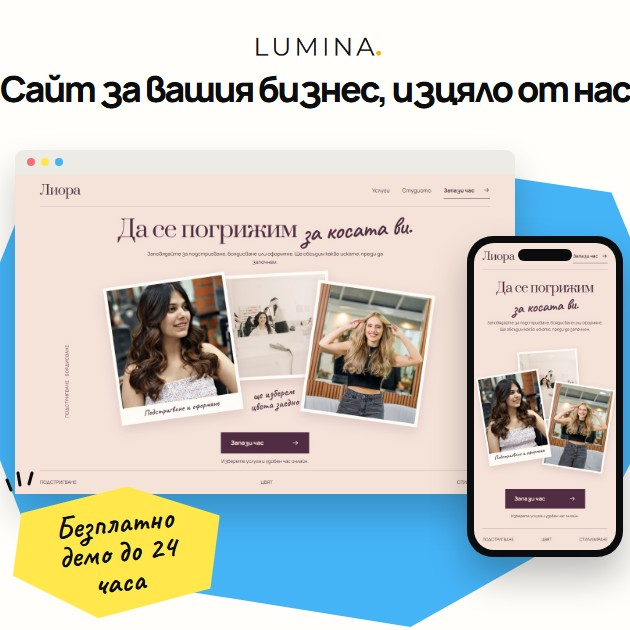
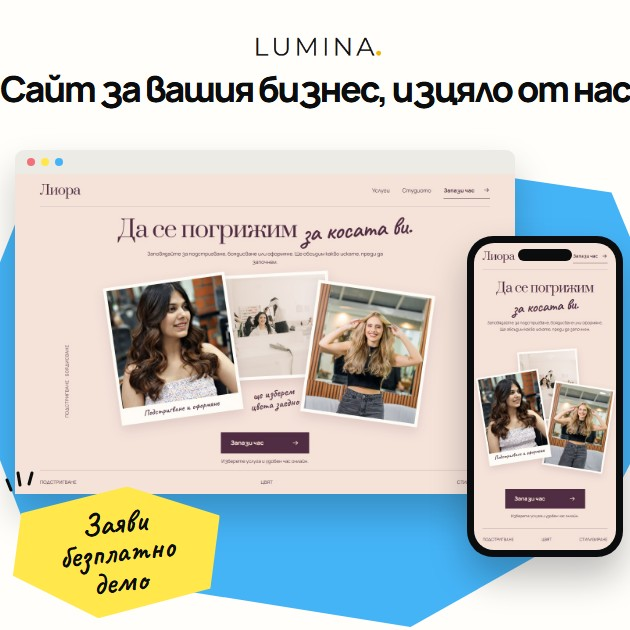
Copy: drop the 24-hour demo promise
The owner felt "demo within 24 hours" sounded automated. The demo is now
simply free, on request: hero notes, contact steps and offer, postmark,
thank-you card, meta description and share picture (v=5).

Changed region(s): [[0.0905, 0.8143, 0.3016, 0.9651]]

diff --git a/index.html b/index.html
@@ -4,7 +4,7 @@
   <meta charset="utf-8">
   <meta name="viewport" content="width=device-width, initial-scale=1, viewport-fit=cover">
   <meta name="theme-color" content="#fffefa">
-  <meta name="description" content="Lumina прави сайтове за малкия бизнес в България: дизайн, изработка, домейн, хостинг, SEO и поддръжка. Безплатно демо на вашия сайт до 24 часа.">
+  <meta name="description" content="Lumina прави сайтове за малкия бизнес в България: дизайн, изработка, домейн, хостинг, SEO и поддръжка. Безплатно демо на вашия сайт.">
   <title>Изработка на сайт за вашия бизнес, изцяло от нас | Lumina</title>
   <!-- Search and link-preview tags. Every full address below starts with the site's public address; when the site moves to luminastudio.bg, change them all (also in robots.txt and sitemap.xml). -->
   <link rel="preload" as="image" href="assets/selected-demos/liora.jpg" type="image/jpeg" fetchpriority="high">
@@ -15,21 +15,21 @@
   <meta property="og:locale" content="bg_BG">
   <meta property="og:url" content="https://luminastudio.bg/">
   <meta property="og:title" content="Lumina — Сайт за вашия бизнес, изцяло от нас">
-  <meta property="og:description" content="Lumina прави сайтове за малкия бизнес в България: дизайн, изработка, домейн, хостинг, SEO и поддръжка. Безплатно демо на вашия сайт до 24 часа.">
-  <meta property="og:image" content="https://luminastudio.bg/assets/share-card.jpg?v=4">
+  <meta property="og:description" content="Lumina прави сайтове за малкия бизнес в България: дизайн, изработка, домейн, хостинг, SEO и поддръжка. Безплатно демо на вашия сайт.">
+  <meta property="og:image" content="https://luminastudio.bg/assets/share-card.jpg?v=5">
   <meta property="og:image:type" content="image/jpeg">
   <meta property="og:image:width" content="1200">
   <meta property="og:image:height" content="630">
-  <meta property="og:image:alt" content="Lumina: „Сайт за вашия бизнес, изцяло от нас.“, примерен сайт и бележка „Безплатно демо до 24 часа“.">
+  <meta property="og:image:alt" content="Lumina: „Сайт за вашия бизнес, изцяло от нас.“, примерен сайт и бележка „Заяви безплатно демо“.">
   <meta name="twitter:card" content="summary_large_image">
   <meta name="twitter:title" content="Lumina — Сайт за вашия бизнес, изцяло от нас">
-  <meta name="twitter:description" content="Lumina прави сайтове за малкия бизнес в България: дизайн, изработка, домейн, хостинг, SEO и поддръжка. Безплатно демо на вашия сайт до 24 часа.">
-  <meta name="twitter:image" content="https://luminastudio.bg/assets/share-card.jpg?v=4">
+  <meta name="twitter:description" content="Lumina прави сайтове за малкия бизнес в България: дизайн, изработка, домейн, хостинг, SEO и поддръжка. Безплатно демо на вашия сайт.">
+  <meta name="twitter:image" content="https://luminastudio.bg/assets/share-card.jpg?v=5">
   <link rel="icon" href="favicon.ico" sizes="48x48">
   <link rel="icon" href="assets/favicon.svg" type="image/svg+xml">
   <link rel="apple-touch-icon" href="assets/apple-touch-icon.png">
   <link rel="manifest" href="site.webmanifest">
-  <script type="application/ld+json">{"@context":"https://schema.org","@type":"ProfessionalService","name":"Lumina Studio","description":"Lumina прави сайтове за малкия бизнес в България: дизайн, изработка, домейн, хостинг, SEO и поддръжка. Безплатно демо на вашия сайт до 24 часа.","url":"https://luminastudio.bg/","image":"https://luminastudio.bg/assets/share-card.jpg?v=4","logo":"https://luminastudio.bg/assets/icon-512.png","telephone":"+359877776563","email":"info@luminastudio.bg","areaServed":{"@type":"Country","name":"Bulgaria"},"availableLanguage":["bg","en"],"knowsAbout":["Уеб дизайн","Изработка на сайтове","SEO оптимизация","Хостинг и домейни","Поддръжка на сайтове"]}</script>
+  <script type="application/ld+json">{"@context":"https://schema.org","@type":"ProfessionalService","name":"Lumina Studio","description":"Lumina прави сайтове за малкия бизнес в България: дизайн, изработка, домейн, хостинг, SEO и поддръжка. Безплатно демо на вашия сайт.","url":"https://luminastudio.bg/","image":"https://luminastudio.bg/assets/share-card.jpg?v=5","logo":"https://luminastudio.bg/assets/icon-512.png","telephone":"+359877776563","email":"info@luminastudio.bg","areaServed":{"@type":"Country","name":"Bulgaria"},"availableLanguage":["bg","en"],"knowsAbout":["Уеб дизайн","Изработка на сайтове","SEO оптимизация","Хостинг и домейни","Поддръжка на сайтове"]}</script>
   <link rel="stylesheet" href="assets/fonts/fonts.css?v=2">
   <link rel="stylesheet" href="styles.css?v=23">
   <link rel="stylesheet" href="overview-clear-callouts.css?v=10">
@@ -49,12 +49,12 @@
   <script src="assets/project-stories.js?v=12" defer></script>
   <script src="portfolio-story.js?v=15" defer></script>
   <script src="assets/site-preview.js?v=16" defer></script>
-  <script src="contact-postcard.js?v=14" defer></script>
+  <script src="contact-postcard.js?v=15" defer></script>
   <script src="overview-clear-callouts.js?v=6" defer></script>
   <script src="assets/teron-shop.js?v=4" defer></script>
   <script src="script.js?v=3" defer></script>
   <script src="cookies.js?v=3" defer></script>
-  <script src="i18n.js?v=teron-25" defer></script>
+  <script src="i18n.js?v=teron-27" defer></script>
 </head>
 <body>
   <svg class="icon-library" xmlns="http://www.w3.org/2000/svg" aria-hidden="true">
@@ -139,8 +139,8 @@
             <div class="phone-camera"></div>
             <div class="phone-screen hero-demo-stage hero-demo-stage--phone"><div class="hero-slide hero-slide--liora is-active" data-slide="0"><img class="hero-preview-image" src="assets/selected-demos/liora-mobile.jpg" width="390" height="844" alt="" decoding="async" fetchpriority="high"></div><div class="hero-slide hero-slide--forno" data-slide="1" aria-hidden="true"><img class="hero-preview-image" src="assets/selected-demos/forno-mobile.jpg" width="390" height="844" alt="" decoding="async"></div><div class="hero-slide hero-slide--hotel" data-slide="2" aria-hidden="true"><img class="hero-preview-image" src="assets/selected-demos/hotel-mobile.jpg" width="390" height="844" alt="" decoding="async"></div></div>
           </div>
-          <a class="pink-note" href="#contact"><span class="note-wide">Клиентите<br>ви търсят<br>онлайн.<br>Бъдете там.</span><span class="note-phone">Безплатно<br>демо до<br>24 часа</span><i></i></a><span class="note-marks" aria-hidden="true"><i></i><i></i><i></i></span>
-          <div class="process-note"><span>Безплатно демо<br>до 24 часа.</span><svg class="process-note-arrow" viewBox="0 0 120 44" aria-hidden="true"><path d="M4 34C40 44 82 36 112 8M96 6l16 2-7 15"/></svg></div>
+          <a class="pink-note" href="#contact"><span class="note-wide">Клиентите<br>ви търсят<br>онлайн.<br>Бъдете там.</span><span class="note-phone">Заяви<br>безплатно<br>демо</span><i></i></a><span class="note-marks" aria-hidden="true"><i></i><i></i><i></i></span>
+          <div class="process-note"><span>Без ангажимент<br>от ваша страна.</span><svg class="process-note-arrow" viewBox="0 0 120 44" aria-hidden="true"><path d="M4 34C40 44 82 36 112 8M96 6l16 2-7 15"/></svg></div>
         </div>
       </section>
 
@@ -170,7 +170,7 @@
     </section>
 
       <section class="contact-overview" id="contact" tabindex="-1" aria-labelledby="contact-title">
-        <div class="contact-stage" id="contact-stage"></div><noscript><h2>Безплатно демо до 24 часа.</h2><p>Включете JavaScript, за да разгледате формата за безплатно демо.</p></noscript>
+        <div class="contact-stage" id="contact-stage"></div><noscript><h2>Безплатно демо по заявка.</h2><p>Включете JavaScript, за да разгледате формата за безплатно демо.</p></noscript>
       </section>
 
       <footer class="bottom-line"><p class="footer-label">ВСИЧКО Е ПОЕТО ОТ НАС.</p><p class="footer-description">Вие се фокусирате върху бизнеса си.<br>Ние се грижим за сайта, SEO, хостинга, домейна, маркетинга и поддръжката.</p><button class="cookie-settings" type="button">Бисквитки</button></footer>

diff --git a/previews/share-card-2/card.html b/previews/share-card-2/card.html
@@ -109,7 +109,7 @@ h1 em{font-style:normal;background:linear-gradient(transparent 58%,var(--yellow)
   <h1 class="v1 h">Сайт за вашия бизнес, изцяло от нас.</h1>
   <div class="v1 browser"><div class="bar"><i></i><i></i><i></i></div><img src="../../assets/selected-demos/liora.jpg" alt=""></div>
   <div class="v1 phone"><img src="../../assets/selected-demos/liora-mobile.jpg" alt=""></div>
-  <div class="v1 note">Безплатно демо до 24 часа</div>
+  <div class="v1 note">Заяви безплатно демо</div>
   <svg class="v1 marks" viewBox="0 0 46 40"><path d="M6 20 2 10M15 15 13 3M24 14 27 3"/></svg>
 
   <i class="v2 s1 blue cut1"></i><i class="v2 s2 pink cut2"></i><i class="v2 s3 pale cut3"></i>
@@ -118,20 +118,20 @@ h1 em{font-style:normal;background:linear-gradient(transparent 58%,var(--yellow)
   <h1 class="v2 h">Сайт за вашия бизнес,<br><em>изцяло от нас.</em></h1>
   <img class="v2 logo" src="../../assets/images/lumina-logo.png" alt="">
   <p class="v2 url">LUMINASTUDIO.BG</p>
-  <div class="v2 note">Безплатно демо до 24 часа</div>
+  <div class="v2 note">Заяви безплатно демо</div>
 
   <i class="v3 s1 blue cut1"></i><i class="v3 s2 pink cut2"></i><i class="v3 s3 pale cut3"></i>
   <img class="v3 logo" src="../../assets/images/lumina-logo.png" alt="">
   <h1 class="v3 h">Сайт за вашия<br>бизнес, изцяло<br>от нас.</h1>
   <div class="v3 browser"><div class="bar"><i></i><i></i><i></i></div><img src="../../assets/selected-demos/liora.jpg" alt=""></div>
   <div class="v3 phone"><img src="../../assets/selected-demos/liora-mobile.jpg" alt=""></div>
-  <p class="v3 hand">Безплатно демо до 24 часа</p>
+  <p class="v3 hand">Безплатно демо по заявка</p>
   <svg class="v3 arrow" viewBox="0 0 84 100"><path d="M6 92C40 88 62 62 72 16M58 26l14-12 8 17"/></svg>
 
   <i class="v4 s1 blue cut1"></i><i class="v4 s2 pink cut2"></i><i class="v4 s3 pale cut3"></i>
   <img class="v4 logo" src="../../assets/images/lumina-logo.png" alt="">
   <h1 class="v4 h">Сайт за<br>вашия бизнес,<br>изцяло от нас.</h1>
-  <div class="v4 note">Безплатно демо до 24 часа</div>
+  <div class="v4 note">Заяви безплатно демо</div>
   <svg class="v4 marks" viewBox="0 0 46 40"><path d="M6 20 2 10M15 15 13 3M24 14 27 3"/></svg>
   <div class="v4 browser"><div class="bar"><i></i><i></i><i></i></div><img src="../../assets/selected-demos/liora.jpg" alt=""></div>
   <div class="v4 phone"><img src="../../assets/selected-demos/liora-mobile.jpg" alt=""></div>
@@ -140,7 +140,7 @@ h1 em{font-style:normal;background:linear-gradient(transparent 58%,var(--yellow)
   <h1 class="v5 h">Сайт за вашия бизнес, изцяло от нас.</h1>
   <div class="v5 browser"><div class="bar"><i></i><i></i><i></i></div><img src="../../assets/selected-demos/liora.jpg" alt=""></div>
   <div class="v5 phone"><img src="../../assets/selected-demos/liora-mobile.jpg" alt=""></div>
-  <div class="v5 note">Безплатно демо до 24 часа</div>
+  <div class="v5 note">Заяви безплатно демо</div>
   <svg class="v5 marks" viewBox="0 0 46 40"><path d="M6 20 2 10M15 15 13 3M24 14 27 3"/></svg>
 
   <i class="v6 s1 blue cut1"></i><i class="v6 s2 pink cut2"></i><i class="v6 s3 pale cut3"></i>
@@ -148,7 +148,7 @@ h1 em{font-style:normal;background:linear-gradient(transparent 58%,var(--yellow)
   <h1 class="v6 h">Сайт за вашия бизнес, изцяло от нас.</h1>
   <div class="v6 browser"><div class="bar"><i></i><i></i><i></i></div><img src="../../assets/selected-demos/liora.jpg" alt=""></div>
   <div class="v6 phone"><img src="../../assets/selected-demos/liora-mobile.jpg" alt=""></div>
-  <div class="v6 note">Безплатно демо до 24 часа</div>
+  <div class="v6 note">Заяви безплатно демо</div>
   <svg class="v6 marks" viewBox="0 0 46 40"><path d="M6 20 2 10M15 15 13 3M24 14 27 3"/></svg>
 </div>
 <script>document.querySelector('.card').dataset.v = new URLSearchParams(location.search).get('v') || '1'</script>

diff --git a/contact-postcard.js b/contact-postcard.js
@@ -8,13 +8,13 @@
     <div class="cp-panel">
       <div class="cp-story">
         <h2 class="cp-headline" id="contact-title">Всичко започва<br>с една идея.</h2>
-        <ol class="cp-steps"><li><i>1</i><span>Пишете ни.</span></li><li><i>2</i><span>До 24 часа виждате демо на вашия сайт.</span></li><li><i>3</i><span>Харесва ли ви, уговаряме цена. Ако не, не дължите нищо.</span></li></ol>
-        <div class="cp-offer"><strong>До 24 часа<span>безплатно демо</span></strong><p>Първи дизайн,<br>с идея за вашия бизнес.</p></div>
+        <ol class="cp-steps"><li><i>1</i><span>Пишете ни.</span></li><li><i>2</i><span>Показваме ви демо на вашия сайт.</span></li><li><i>3</i><span>Харесва ли ви, уговаряме цена. Ако не, не дължите нищо.</span></li></ol>
+        <div class="cp-offer"><strong>Безплатно<span>демо по заявка</span></strong><p>Първи дизайн,<br>с идея за вашия бизнес.</p></div>
         <p class="cp-signature">Вие давате идеята,<br>а ние правим първия дизайн.<svg viewBox="0 0 100 74" fill="none" aria-hidden="true"><path d="M5 9C12 47 53 59 90 43M76 38l16 3-8 15" stroke="currentColor" stroke-width="1.6" stroke-linecap="round" stroke-linejoin="round"/></svg></p>
       </div>
       <form class="cp-letter" aria-label="Заявка за безплатно демо">
         <div class="cp-stamp" aria-hidden="true"><b>0 €</b><span>демо</span></div>
-        <svg class="cp-postmark" viewBox="0 0 128 76" aria-hidden="true"><circle cx="34" cy="38" r="27"/><circle cx="34" cy="38" r="20"/><text x="34" y="36" text-anchor="middle">LUMINA</text><text x="34" y="47" text-anchor="middle">до 24 ч.</text><path d="M66 22c8-5 14 5 22 0s14 5 22 0 10 4 16 1M66 33c8-5 14 5 22 0s14 5 22 0 10 4 16 1M66 44c8-5 14 5 22 0s14 5 22 0 10 4 16 1M66 55c8-5 14 5 22 0s14 5 22 0 10 4 16 1"/></svg>
+        <svg class="cp-postmark" viewBox="0 0 128 76" aria-hidden="true"><circle cx="34" cy="38" r="27"/><circle cx="34" cy="38" r="20"/><text x="34" y="36" text-anchor="middle">LUMINA</text><text x="34" y="47" text-anchor="middle">STUDIO</text><path d="M66 22c8-5 14 5 22 0s14 5 22 0 10 4 16 1M66 33c8-5 14 5 22 0s14 5 22 0 10 4 16 1M66 44c8-5 14 5 22 0s14 5 22 0 10 4 16 1M66 55c8-5 14 5 22 0s14 5 22 0 10 4 16 1"/></svg>
         <div class="cp-letter-head"><span class="cp-address">До: Lumina Studio</span><h3 class="cp-form-title">Здравейте, Lumina.</h3><p class="cp-form-lead">Имам бизнес и искам да го видя онлайн.</p></div>
         <div class="cp-field-pair">
           <label class="cp-field" for="demo-name"><span>Вашето име</span><input id="demo-name" name="name" type="text" autocomplete="name" maxlength="200" placeholder="Как да се обръщаме към вас?" required></label>
@@ -98,7 +98,7 @@
       <div class="ty-card" role="dialog" aria-modal="true" aria-labelledby="ty-title">
         <i class="ty-back"></i>
         <div class="ty-stamp" aria-hidden="true"><b>0 €</b><span>демо</span></div>
-        <div><h2 id="ty-title">Благодарим!</h2><p>Получихме заявката ви. До 24 часа ще ви покажем демо на вашия сайт.</p><button class="ty-ok" type="button">Добре</button></div>
+        <div><h2 id="ty-title">Благодарим!</h2><p>Получихме заявката ви. Ще се свържем с вас и ще ви покажем демо на вашия сайт.</p><button class="ty-ok" type="button">Добре</button></div>
         <div class="ty-lines" aria-hidden="true"><span>От: Lumina Studio</span><span>До: вас</span><span>&nbsp;</span></div>
         <button class="ty-x" type="button" aria-label="Затвори">×</button>
       </div>`;

diff --git a/contact.css b/contact.css
@@ -24,7 +24,7 @@
 .contact-postcard{display:grid;grid-template-columns:minmax(0,.85fr) minmax(0,1.15fr);gap:5%;align-items:center;background:var(--blue);padding:52px 48px;position:relative;isolation:isolate}
 .contact-postcard:before{content:"";position:absolute;inset:0;background:var(--blue);clip-path:polygon(0 2%,98% 0,100% 96%,1% 100%);z-index:-1}.contact-postcard .contact-description{color:#0c2837;font-size:15px;max-width:34ch}.contact-postcard h2{font-size:clamp(38px,4.2vw,61px)}.contact-postcard .contact-promise{padding:22px 25px;gap:13px;margin-top:30px}.contact-postcard .contact-promise>strong{font-size:67px}.contact-postcard .contact-promise p{font-size:11px}.postcard-signature{font:600 30px/1 Caveat,cursive;margin:35px 0 0 12px;transform:rotate(-4deg)}
 .postcard-letter{background:var(--paper);padding:35px 36px;box-shadow:0 16px 26px #0a324b24;transform:rotate(1deg)}.postcard-to{display:block;text-align:right;font-size:11px;margin-bottom:24px}.postcard-letter h3{font:600 38px/1 Caveat,cursive;margin-bottom:12px}.postcard-lead{font-size:13px;line-height:1.7;margin-bottom:24px}.postcard-letter .contact-field{margin-bottom:17px}.postcard-letter .contact-field-pair{gap:18px}.postcard-letter .contact-field>span{font-size:12px}.postcard-letter .contact-field input,.postcard-letter .contact-field textarea{font-size:13px}.postcard-letter .contact-field textarea{min-height:80px}.postcard-letter .contact-submit{background:var(--pink);color:var(--ink)}.postcard-letter .contact-submit:hover{background:var(--yellow)}
-/* 03: two small steps, with the 24-hour outcome always visible. */
+/* 03: two small steps, with the free demo always visible. */
 .contact-steps{list-style:none;padding:0;margin:34px 0 0;display:grid;gap:0}.contact-steps li{display:flex;align-items:flex-start;gap:19px;padding:18px 0;position:relative}.contact-steps li+li:before{content:"";position:absolute;height:20px;width:1px;left:20px;top:-11px;background:#999388}.contact-steps li>span,.contact-steps li>svg{flex-shrink:0;width:41px;height:41px;display:grid;place-items:center;font-size:13px}.contact-steps li>svg{padding:4px;fill:none;stroke:var(--ink);stroke-width:1.5}.contact-steps li[aria-current]>span{background:var(--yellow);clip-path:polygon(5% 0,100% 7%,95% 100%,0 94%)}.contact-steps strong{font-size:18px;letter-spacing:-.025em}.contact-steps p{font-size:12px;margin-top:5px;color:#4b4841;line-height:1.6}.guided-hand{font:600 28px/1 Caveat,cursive;margin:15px 0 0 60px;transform:rotate(-3deg)}
 .guided-form{padding:33px 35px 28px;background:var(--pale-blue);min-height:470px}.guided-progress{display:flex;justify-content:space-between;gap:20px;font-size:11px;padding-bottom:19px;margin-bottom:25px;border-bottom:1px solid #578297}.guided-form fieldset{border:0;margin:0;padding:0;min-width:0}.guided-form legend{font-size:31px;line-height:1.1;letter-spacing:-.035em;font-weight:700;margin-bottom:30px;padding:0}.guided-form .contact-field input,.guided-form .contact-field textarea{border-bottom-color:#365b6c}.guided-form .contact-field input::placeholder,.guided-form .contact-field textarea::placeholder{color:#3b5261}.guided-form .contact-field textarea{min-height:105px}.guided-form .contact-submit{margin-top:26px}.guided-actions{display:flex;gap:18px;align-items:center}.contact-back{border:0;background:transparent;text-decoration:underline;text-underline-offset:5px;min-height:48px;font-size:12px;padding:10px 0}.guided-actions .contact-submit{margin-top:12px}.guided-form .contact-preview-note{color:#355061}
 /* 04: one broad, open form with the promise joined to the action. */

diff --git a/404.html b/404.html
@@ -8,22 +8,22 @@
 <meta name="robots" content="noindex">
 <title>Страницата не е намерена — Lumina</title>
 <!-- A link pasted in a chat shows the same preview as the home page, even with a mistyped address (owner, 2026-10-14). -->
-<meta name="description" content="Lumina прави сайтове за малкия бизнес в България: дизайн, изработка, домейн, хостинг, SEO и поддръжка. Безплатно демо на вашия сайт до 24 часа.">
+<meta name="description" content="Lumina прави сайтове за малкия бизнес в България: дизайн, изработка, домейн, хостинг, SEO и поддръжка. Безплатно демо на вашия сайт.">
 <meta property="og:type" content="website">
 <meta property="og:site_name" content="Lumina">
 <meta property="og:locale" content="bg_BG">
 <meta property="og:url" content="https://luminastudio.bg/">
 <meta property="og:title" content="Lumina — Сайт за вашия бизнес, изцяло от нас">
-<meta property="og:description" content="Lumina прави сайтове за малкия бизнес в България: дизайн, изработка, домейн, хостинг, SEO и поддръжка. Безплатно демо на вашия сайт до 24 часа.">
-<meta property="og:image" content="https://luminastudio.bg/assets/share-card.jpg?v=4">
+<meta property="og:description" content="Lumina прави сайтове за малкия бизнес в България: дизайн, изработка, домейн, хостинг, SEO и поддръжка. Безплатно демо на вашия сайт.">
+<meta property="og:image" content="https://luminastudio.bg/assets/share-card.jpg?v=5">
 <meta property="og:image:type" content="image/jpeg">
 <meta property="og:image:width" content="1200">
 <meta property="og:image:height" content="630">
-<meta property="og:image:alt" content="Lumina: „Сайт за вашия бизнес, изцяло от нас.“, примерен сайт и бележка „Безплатно демо до 24 часа“.">
+<meta property="og:image:alt" content="Lumina: „Сайт за вашия бизнес, изцяло от нас.“, примерен сайт и бележка „Заяви безплатно демо“.">
 <meta name="twitter:card" content="summary_large_image">
 <meta name="twitter:title" content="Lumina — Сайт за вашия бизнес, изцяло от нас">
-<meta name="twitter:description" content="Lumina прави сайтове за малкия бизнес в България: дизайн, изработка, домейн, хостинг, SEO и поддръжка. Безплатно демо на вашия сайт до 24 часа.">
-<meta name="twitter:image" content="https://luminastudio.bg/assets/share-card.jpg?v=4">
+<meta name="twitter:description" content="Lumina прави сайтове за малкия бизнес в България: дизайн, изработка, домейн, хостинг, SEO и поддръжка. Безплатно демо на вашия сайт.">
+<meta name="twitter:image" content="https://luminastudio.bg/assets/share-card.jpg?v=5">
 <link rel="icon" href="/assets/favicon.svg" type="image/svg+xml">
 <link rel="stylesheet" href="/assets/fonts/fonts.css?v=2">
 <style>

diff --git a/i18n.js b/i18n.js
@@ -72,12 +72,12 @@
     'онлайн.': 'are online.',
     'Бъдете там.': 'Are you?',
     'Безплатно': 'Free',
-    'демо до': 'demo within',
-    '24 часа': '24 hours',
     'Идеите': 'Ideas',
     'оживяват': 'come to life',
     'онлайн': 'online',
-    'до 24 часа.': 'within 24 hours.',
+    'Без ангажимент': 'No commitment',
+    'от ваша страна.': 'on your part.',
+    'Безплатно демо по заявка.': 'Free demo on request.',
 
     // Service strip
     'Уебсайтове,': 'Websites',
@@ -449,13 +449,12 @@
     'Всичко започва': "It all starts",
     'с една идея.': "with an idea.",
     'Разкажете ни за бизнеса си. Ще създадем безплатно демо на вашия сайт до 24 часа след заявката.': "Tell us about your business. We’ll make a free demo of your website within 24 hours of your request.",
-    'До 24 часа': 'Within 24 hours',
+    'демо по заявка': 'demo on request',
     'безплатно демо': 'free demo',
     'Първи дизайн,': 'A first design,',
     'с идея за вашия бизнес.': "made for your business.",
     'Вие давате идеята,': 'You bring the idea,',
     'а ние правим първия дизайн.': 'and we make the first design.',
-    'до 24 ч.': "within 24h",
     'Заявка за безплатно демо': 'Free demo request',
     'До: Lumina Studio': 'To: Lumina Studio',
     'Здравейте, Lumina.': 'Hello, Lumina.',
@@ -476,11 +475,11 @@
     'Не успяхме да потвърдим изпращането навреме. Данните ви са запазени във формата. Моля, свържете се с нас на 0877 776 563 или info@luminastudio.bg, за да проверим заявката.': 'We couldn’t confirm your request in time. Your details are still in the form. Please contact us on 0877 776 563 or info@luminastudio.bg so we can check your request.',
     'Какво включва': 'What’s included',
     'Пишете ни.': 'Write to us.',
-    'До 24 часа виждате демо на вашия сайт.': 'Within 24 hours you see a demo of your website.',
+    'Показваме ви демо на вашия сайт.': 'We show you a demo of your website.',
     'Харесва ли ви, уговаряме цена. Ако не, не дължите нищо.': 'If you like it, we agree a price. If not, you owe nothing.',
     'Използваме контакта ви само за да ви отговорим.': 'We use your contact details only to reply to you.',
     'Благодарим!': 'Thank you!',
-    'Получихме заявката ви. До 24 часа ще ви покажем демо на вашия сайт.': "We’ve received your request. Within 24 hours we’ll show you a demo of your website.",
+    'Получихме заявката ви. Ще се свържем с вас и ще ви покажем демо на вашия сайт.': "We’ve received your request. We’ll get in touch and show you a demo of your website.",
     'Добре': 'OK',
     'От: Lumina Studio': 'From: Lumina Studio',
     'До: вас': 'To: you',

diff --git a/styles.css b/styles.css
@@ -246,7 +246,7 @@ html #why-sites.compact,html #services,html #portfolio,html #contact{border-top:
 .traffic-lights i:nth-child(2){background:var(--yellow)}
 .traffic-lights i:nth-child(3){background:var(--blue)}
 
-/* The 24-hour promise in the hero: a pale-blue cut-paper note of its own, shaped like the yellow demo note and
+/* The "no commitment" note in the hero: a pale-blue cut-paper note of its own, shaped like the yellow demo note and
    sitting clear of the blue shape (it used to be a white card lying on it). Positions are shares of the showcase. */
 .process-note{left:15.5%;right:auto;top:89%;bottom:auto;width:auto;padding:13px 22px 15px 20px;background:none;box-shadow:none;font-size:23px;line-height:1;transform:rotate(6deg);z-index:4;isolation:isolate;filter:drop-shadow(0 9px 9px #2723110f)}
 .process-note:before{content:"";position:absolute;inset:0;z-index:-1;background:var(--pale-blue);clip-path:polygon(7% 12%,58% 0,97% 16%,100% 62%,84% 100%,22% 94%,0 55%)}

diff --git a/demo-cta.css b/demo-cta.css
@@ -43,7 +43,7 @@
   .sticky-demo.is-shown .sticky-marks i:nth-child(3){animation-delay:.71s}
 }
 
-/* The yellow "Безплатно демо до 24 часа" note on the phone hero picture: the same three ink marks, drop-in and
+/* The yellow "Заяви безплатно демо" note on the phone hero picture: the same three ink marks, drop-in and
    periodic nudge as the yellow note on wide screens. The marks sit outside the note because the note is clipped
    to its paper shape; they turn around the note's centre so the two move as one piece. */
 .note-marks{display:none}

diff --git a/CLAUDE.md b/CLAUDE.md
@@ -32,11 +32,13 @@ Header (sticky on desktop, hamburger under 850px) → hero → service strip wit
 | `i18n.js` | The BG \| EN switch in the header. Bulgarian stays the source: all scripts write Bulgarian and this file swaps visible text and labels for English from one dictionary (plus patterns for sentences built from pieces) while EN is chosen, watching the page for new text. Anything missing from the dictionary simply stays Bulgarian, so **new or changed Bulgarian copy needs its English entry here**. The client sites, the Google searches and their result titles stay Bulgarian on purpose. The choice is kept in `localStorage` (`lumina_lang`); `?lang=en` forces it. One note is written by CSS (`.reasons:after`) and is translated at the end of `styles.css`, next to the header spacing rules that make room for the switch. |
 | `sites/` | Static copies of the four client sites (razor, vsi, jtn, mypizza). `sites/razor` has a demo booking form added (`booking-demo.js/.css`) that says clearly it makes no real booking. |
 
-Added 2026-10-12, all phone/tablet helpers: the demo bar at the bottom (`.sticky-demo`) has three ink marks and the same periodic nudge as the desktop note (`demo-cta.css`); where the why-section shows one example at a time (up to 1100px) a handwritten hint sits above the tabs and a "Следващ пример" button under the example opens the next one (`showMobile` in `overview-clear-callouts.js`); the viewer shows a yellow note by the pause button for 7 seconds when it opens (`.lp-tip` in `assets/site-preview.js`); the contact message box grows with the text. The yellow „Безплатно демо до 24 часа“ note on the phone hero picture (`.pink-note`, up to 600px) also drops in, nudges every few seconds and has three ink marks (`.note-marks`, a sibling because the note is clipped); rules at the end of `demo-cta.css`.
+Added 2026-10-12, all phone/tablet helpers: the demo bar at the bottom (`.sticky-demo`) has three ink marks and the same periodic nudge as the desktop note (`demo-cta.css`); where the why-section shows one example at a time (up to 1100px) a handwritten hint sits above the tabs and a "Следващ пример" button under the example opens the next one (`showMobile` in `overview-clear-callouts.js`); the viewer shows a yellow note by the pause button for 7 seconds when it opens (`.lp-tip` in `assets/site-preview.js`); the contact message box grows with the text. The yellow „Заяви безплатно демо“ note on the phone hero picture (`.pink-note`, up to 600px) also drops in, nudges every few seconds and has three ink marks (`.note-marks`, a sibling because the note is clipped); rules at the end of `demo-cta.css`.
 
 Copy review 2026-10-12: the owner read all Bulgarian and then all English text segment by segment and approved it; the English has a few deliberately "posher" word choices of theirs (crafted, Aftercare, made to measure). The intro line under the services heading sits under the heading, not beside it (pick 1 from `previews/services-intro/`; rule at the end of `services-refined.css`). In English, `i18n.js` also turns price commas into points (`PRICE`), the only text without Cyrillic that it touches.
 
-Design review 2026-10-13 (Impeccable critique + audit, saved in `.impeccable/critique/`): the owner went through the findings one by one. Done: the cookie notice is compact on phones (second sentence in `.cookie-more`, hidden up to 700px) and sits right after the skip link in the page order; lighter pictures with no visible change: the hero used `assets/images/seaside-hero-1000.webp` (the 1536px original stays for the share card), the roof shop's three small product pictures use `roof-*-thumb.webp`, the portfolio picker uses `assets/previews/*-desktop-thumb.jpg`, and the materials example's placeholder picture points at `roof-ridge.webp` because the Терон shop replaces it at once. When a roof or portfolio picture changes, remake its thumb. HTTPS Enforce was switched on in SiteGround by the owner. Also done that day: three handwritten "what happens next" steps replace the short description beside the contact form (`.cp-steps`, pick 2 from `previews/contact-steps/`) with a privacy line under the button (`.cp-privacy`); the thank-you card promises the demo within 24 hours; on phones (up to 700px) each service's list opens from a „Какво включва“ button (`.sr-more`, built in `services-ideas.js`), wider screens always show the lists; up to 1100px the three example windows are taller with larger text and tap areas (blocks at the end of `overview-clear-callouts.css` and `assets/teron-shop.css`, toned down under 370px); the BG | EN switch has a 44px tap area up to 850px; `contact.css`, `script.js` and `cookies.js` now carry `?v=`; decorative icons in `index.html` are `aria-hidden`. The hidden `#detail-area` block (three old sections never shown to visitors) was removed on 2026-10-14 for SEO; `script.js` no longer depends on it. Later the same day: on phones the four portfolio project buttons sit above the preview (end of `portfolio-story.css`); the pizza and salon examples answer with „Примерна поръчка/резервация … Не е изпратена.“; the pause button under the preview also holds the Google typing (`heldByVisitor` in `portfolio-story.js`); a failed send shows on pink with tappable phone and email, and a field error stays under the button with `aria-invalid` on the field. Declined by the owner: relabelling MyPizza, a demo button on the phone hero, showing the bottom demo bar earlier.
+Design review 2026-10-13 (Impeccable critique + audit, saved in `.impeccable/critique/`): the owner went through the findings one by one. Done: the cookie notice is compact on phones (second sentence in `.cookie-more`, hidden up to 700px) and sits right after the skip link in the page order; lighter pictures with no visible change: the hero used `assets/images/seaside-hero-1000.webp` (the 1536px original stays for the share card), the roof shop's three small product pictures use `roof-*-thumb.webp`, the portfolio picker uses `assets/previews/*-desktop-thumb.jpg`, and the materials example's placeholder picture points at `roof-ridge.webp` because the Терон shop replaces it at once. When a roof or portfolio picture changes, remake its thumb. HTTPS Enforce was switched on in SiteGround by the owner. Also done that day: three handwritten "what happens next" steps replace the short description beside the contact form (`.cp-steps`, pick 2 from `previews/contact-steps/`) with a privacy line under the button (`.cp-privacy`); the thank-you card says we will get in touch with the demo; on phones (up to 700px) each service's list opens from a „Какво включва“ button (`.sr-more`, built in `services-ideas.js`), wider screens always show the lists; up to 1100px the three example windows are taller with larger text and tap areas (blocks at the end of `overview-clear-callouts.css` and `assets/teron-shop.css`, toned down under 370px); the BG | EN switch has a 44px tap area up to 850px; `contact.css`, `script.js` and `cookies.js` now carry `?v=`; decorative icons in `index.html` are `aria-hidden`. The hidden `#detail-area` block (three old sections never shown to visitors) was removed on 2026-10-14 for SEO; `script.js` no longer depends on it. Later the same day: on phones the four portfolio project buttons sit above the preview (end of `portfolio-story.css`); the pizza and salon examples answer with „Примерна поръчка/резервация … Не е изпратена.“; the pause button under the preview also holds the Google typing (`heldByVisitor` in `portfolio-story.js`); a failed send shows on pink with tappable phone and email, and a field error stays under the button with `aria-invalid` on the field. Declined by the owner: relabelling MyPizza, a demo button on the phone hero, showing the bottom demo bar earlier.
+
+No 24-hour promise (owner, 2026-10-21): it read as too automated, AI-like. The demo is simply free, on request. Removed from the meta description, the hero notes (phone note „Заяви безплатно демо“; the blue desktop note now says „Без ангажимент от ваша страна.“), the contact steps, the yellow offer („Безплатно“ / „демо по заявка“), the postmark (now „LUMINA STUDIO“), the thank-you card and the share picture (`?v=5`). Old pages in `previews/` and unused `i18n.js` entries still mention it; leave them. Do not bring a time promise back.
 
 Projects in the portfolio change only when the visitor picks one (`data-auto-advance="false"` on `#portfolio`); the preview inside keeps scrolling.
 
@@ -48,7 +50,7 @@ Picking another project used to flash the still poster (the finished landing pag
 
 Owner's requests 2026-10-14: the project buttons no longer carry the small arrows that opened the client sites (people mistook them; „Отворете сайта“ under the preview remains); on phones a handwritten „Натиснете екрана и разгледайте сайта сами.“ (`.ps-hint`) sits between the buttons and the preview; in the full-screen viewer the site takes no taps or scrolling while its tour plays (`dialog[data-touring]`, `nudgeTip` in `assets/site-preview.js` points at the pause button instead; a key press still hands it over; since a later request that day the playing page also gets `html[data-lumina-touring]` inside the frame, which locks its own scrolling for phones, and the viewer always opens playing unless the visitor paused the portfolio preview); the opened phone menu shows each link on its own paper slip (pick 3 from `previews/menu-panel/`, block at the end of `styles.css`). `previews/menu-button/` holds five looks for the menu button itself that were not what the owner meant and were not used.
 
-Hero since 2026-10-14: the browser and phone frames show three example sites in turn, salon (Лиора) → pizza place (Forno) → seaside hotel, 4 seconds each, round and round, with no buttons and nothing clickable (owner's request). They are screenshots in `assets/selected-demos/` (desktop 1280×820, phone `*-mobile.jpg` 390×844) taken from the owner's zip `Lumina-complete-selected-homepage-v2.zip`; only the hero was taken from it, not its other changes (its picker/pause buttons, email-only contact form, `noindex`, `site-options/` demo pages). `assets/hero-demos.css` / `.js` run it; the browser frame sits at 12% from the left so it does not cover the intro text. `assets/hero-guesthouse.css` (the old guesthouse hero) is no longer loaded. On phones (up to 600px) the small phone and the yellow „Безплатно демо до 24 часа“ note sit 7% in from the right edge (the owner saw them cut off at the screen edge on their phone; hiding them was the wrong fix and was undone the same day). Rules at the end of `assets/hero-demos.css`.
+Hero since 2026-10-14: the browser and phone frames show three example sites in turn, salon (Лиора) → pizza place (Forno) → seaside hotel, 4 seconds each, round and round, with no buttons and nothing clickable (owner's request). They are screenshots in `assets/selected-demos/` (desktop 1280×820, phone `*-mobile.jpg` 390×844) taken from the owner's zip `Lumina-complete-selected-homepage-v2.zip`; only the hero was taken from it, not its other changes (its picker/pause buttons, email-only contact form, `noindex`, `site-options/` demo pages). `assets/hero-demos.css` / `.js` run it; the browser frame sits at 12% from the left so it does not cover the intro text. `assets/hero-guesthouse.css` (the old guesthouse hero) is no longer loaded. On phones (up to 600px) the small phone and the yellow „Заяви безплатно демо“ note sit 7% in from the right edge (the owner saw them cut off at the screen edge on their phone; hiding them was the wrong fix and was undone the same day). Rules at the end of `assets/hero-demos.css`.
 
 Pre-launch test 2026-10-14 (Playwright, Firefox and Chromium, 320–2560px): no script errors, missing files or sideways scrolling; menus, links, BG/EN, the examples, the portfolio viewer and the form held up under rapid and odd input. Fixed then: Back (or the phone's back gesture) with the full-screen preview open closes it instead of leaving the site (`history.pushState` in `open()`, a `popstate` listener, and `cleanup()` takes the step back when closed otherwise; `assets/site-preview.js`); while the cookie notice shows, `cookies.js` gives `<body>` matching bottom padding so the footer is not hidden; the form's email check matches `send.php` (no double or trailing dots), and a 422 from the server points at the contact field. `.htaccess` (tracked, uploaded to SiteGround) redirects www.luminastudio.bg to luminastudio.bg. A wrong address shows `404.html` (owner's pick 3 from `previews/not-found/`, three paper slips 4-0-4 in yellow/pink/blue; `ErrorDocument 404` in `.htaccess`, status stays 404). It is standalone with its CSS inline and every address starting with `/`, because it is served at any depth; so on GitHub Pages (under /lumina-website/) it shows without fonts and logo, which is accepted. It carries the home page's link-preview tags (share card, title, description), so a mistyped link pasted in a chat still shows the Lumina card (owner's request; keep them in step with `index.html`). Left for the owner: the cookie text naming Google Analytics while `GA_ID` is still empty.
 
